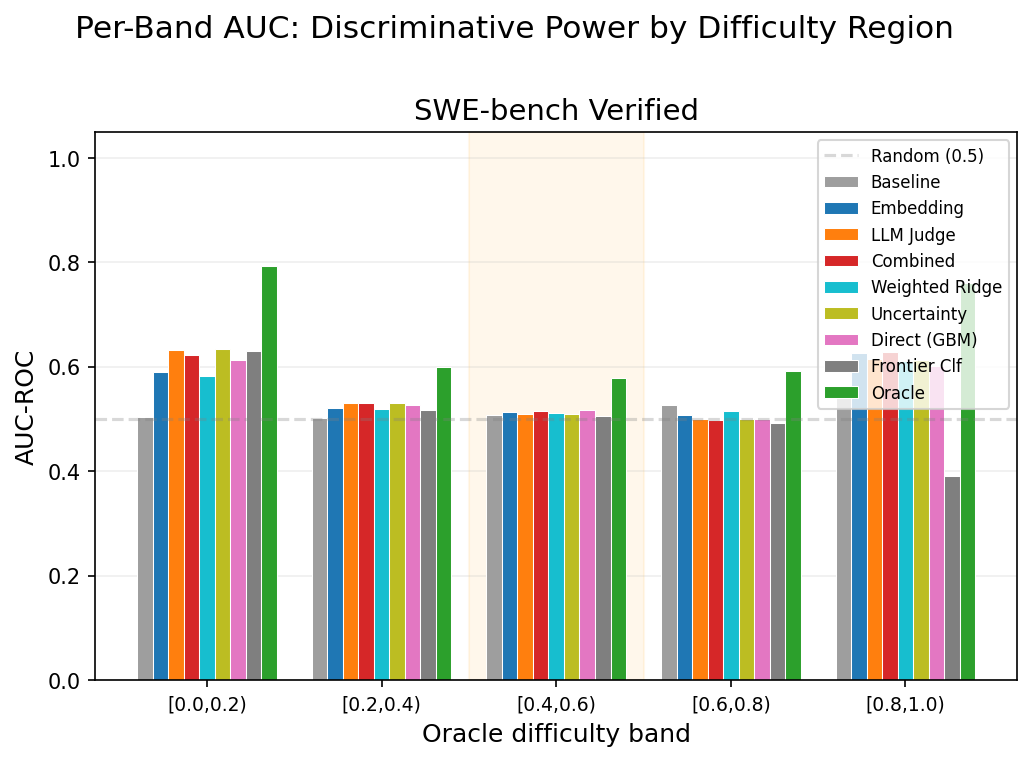
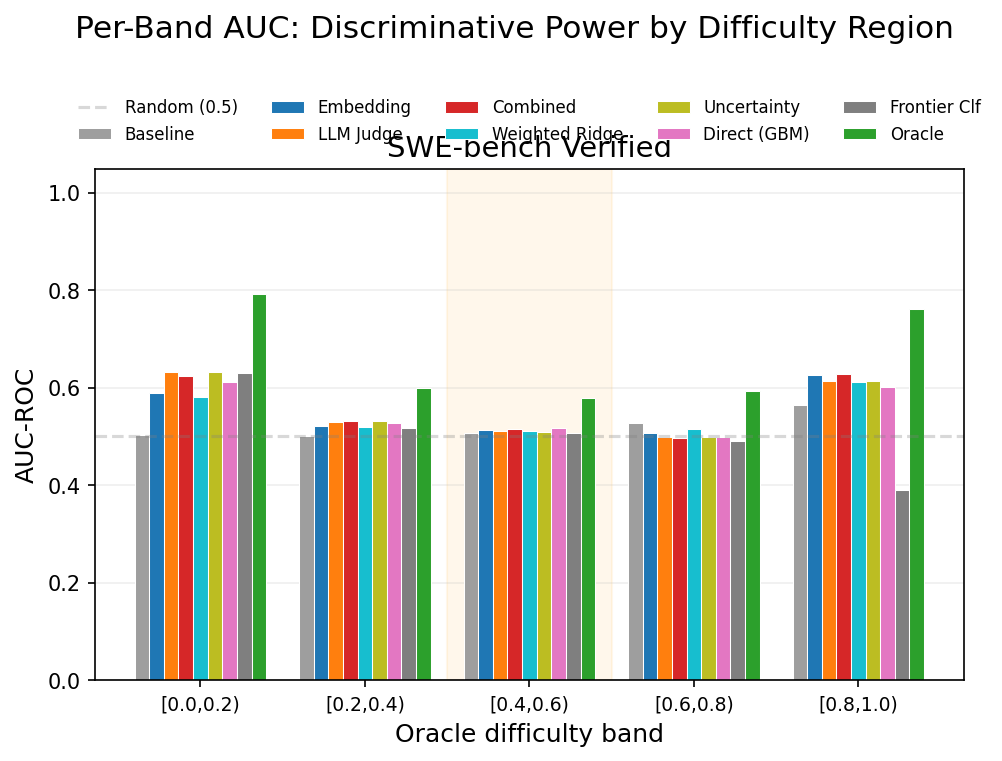
Move legend above plot to avoid covering data

diff --git a/experiment_new_tasks/plot_frontier_analysis.py b/experiment_new_tasks/plot_frontier_analysis.py
@@ -34,6 +34,10 @@ PREDICTOR_COLORS = {
     "llm_judge": "#ff7f0e",
     "grouped": "#d62728",
     "constant_baseline": "#9e9e9e",
+    "weighted_ridge": "#17becf",
+    "uncertainty": "#bcbd22",
+    "direct": "#e377c2",
+    "frontier_classifier": "#7f7f7f",
 }
 
 PREDICTOR_DISPLAY = {
@@ -42,9 +46,17 @@ PREDICTOR_DISPLAY = {
     "llm_judge": "LLM Judge",
     "grouped": "Combined",
     "constant_baseline": "Baseline",
+    "weighted_ridge": "Weighted Ridge",
+    "uncertainty": "Uncertainty",
+    "direct": "Direct (GBM)",
+    "frontier_classifier": "Frontier Clf",
 }
 
-PREDICTOR_ORDER = ["constant_baseline", "embedding", "llm_judge", "grouped", "oracle"]
+PREDICTOR_ORDER = [
+    "constant_baseline", "embedding", "llm_judge", "grouped",
+    "weighted_ridge", "uncertainty", "direct", "frontier_classifier",
+    "oracle",
+]
 
 
 def plot_calibration(
@@ -187,7 +199,8 @@ def plot_band_aucs(
         ax.set_xticks(x)
         ax.set_xticklabels(band_labels, fontsize=9)
         ax.set_ylim(0, 1.05)
-        ax.legend(fontsize=8, loc="upper right")
+        ax.legend(fontsize=8, loc="lower center", bbox_to_anchor=(0.5, 1.02),
+                  ncol=min(n_preds + 1, 5), frameon=False)
         ax.grid(axis="y", alpha=0.2)
         ax.set_axisbelow(True)
 
